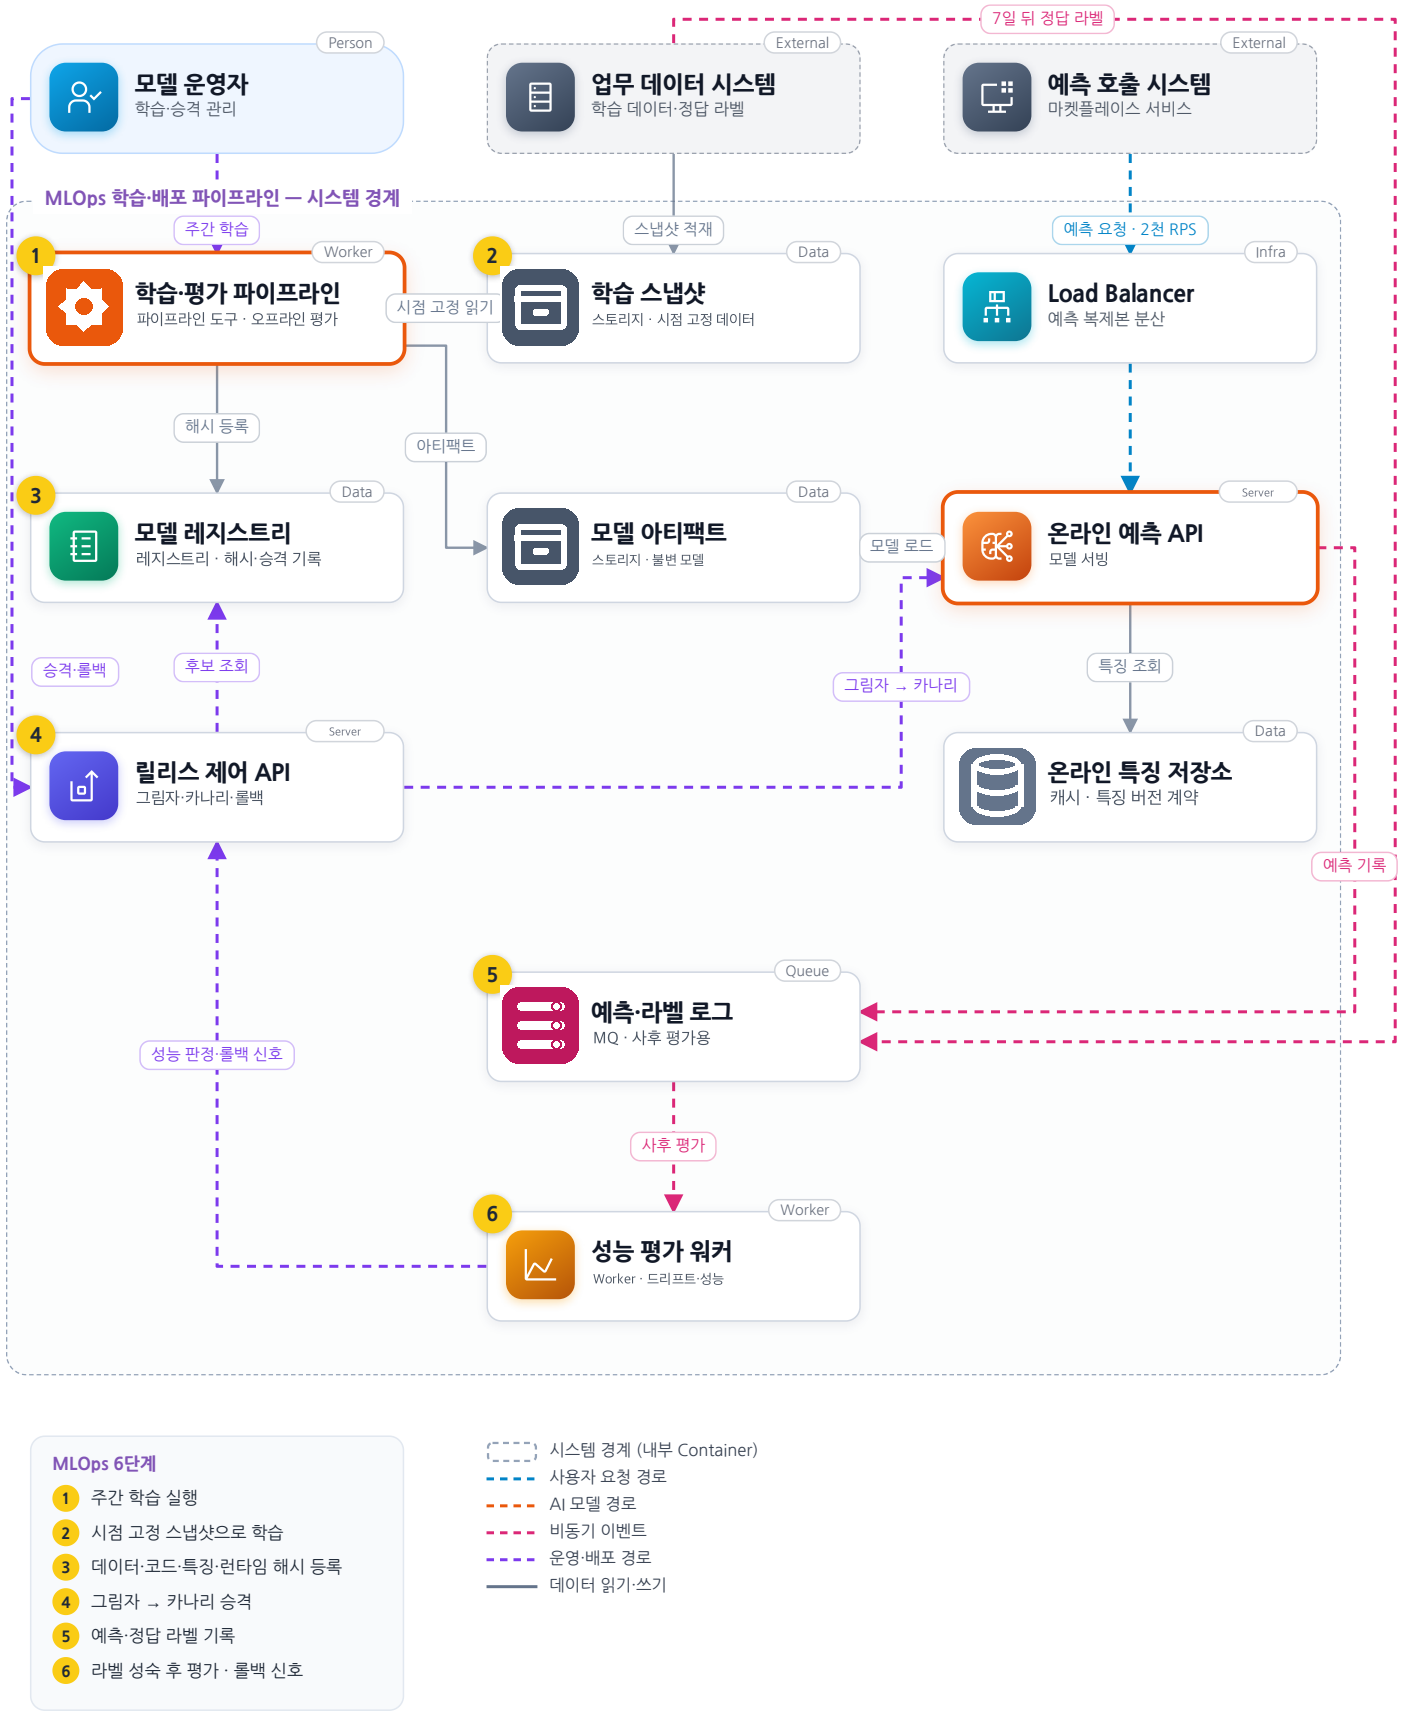
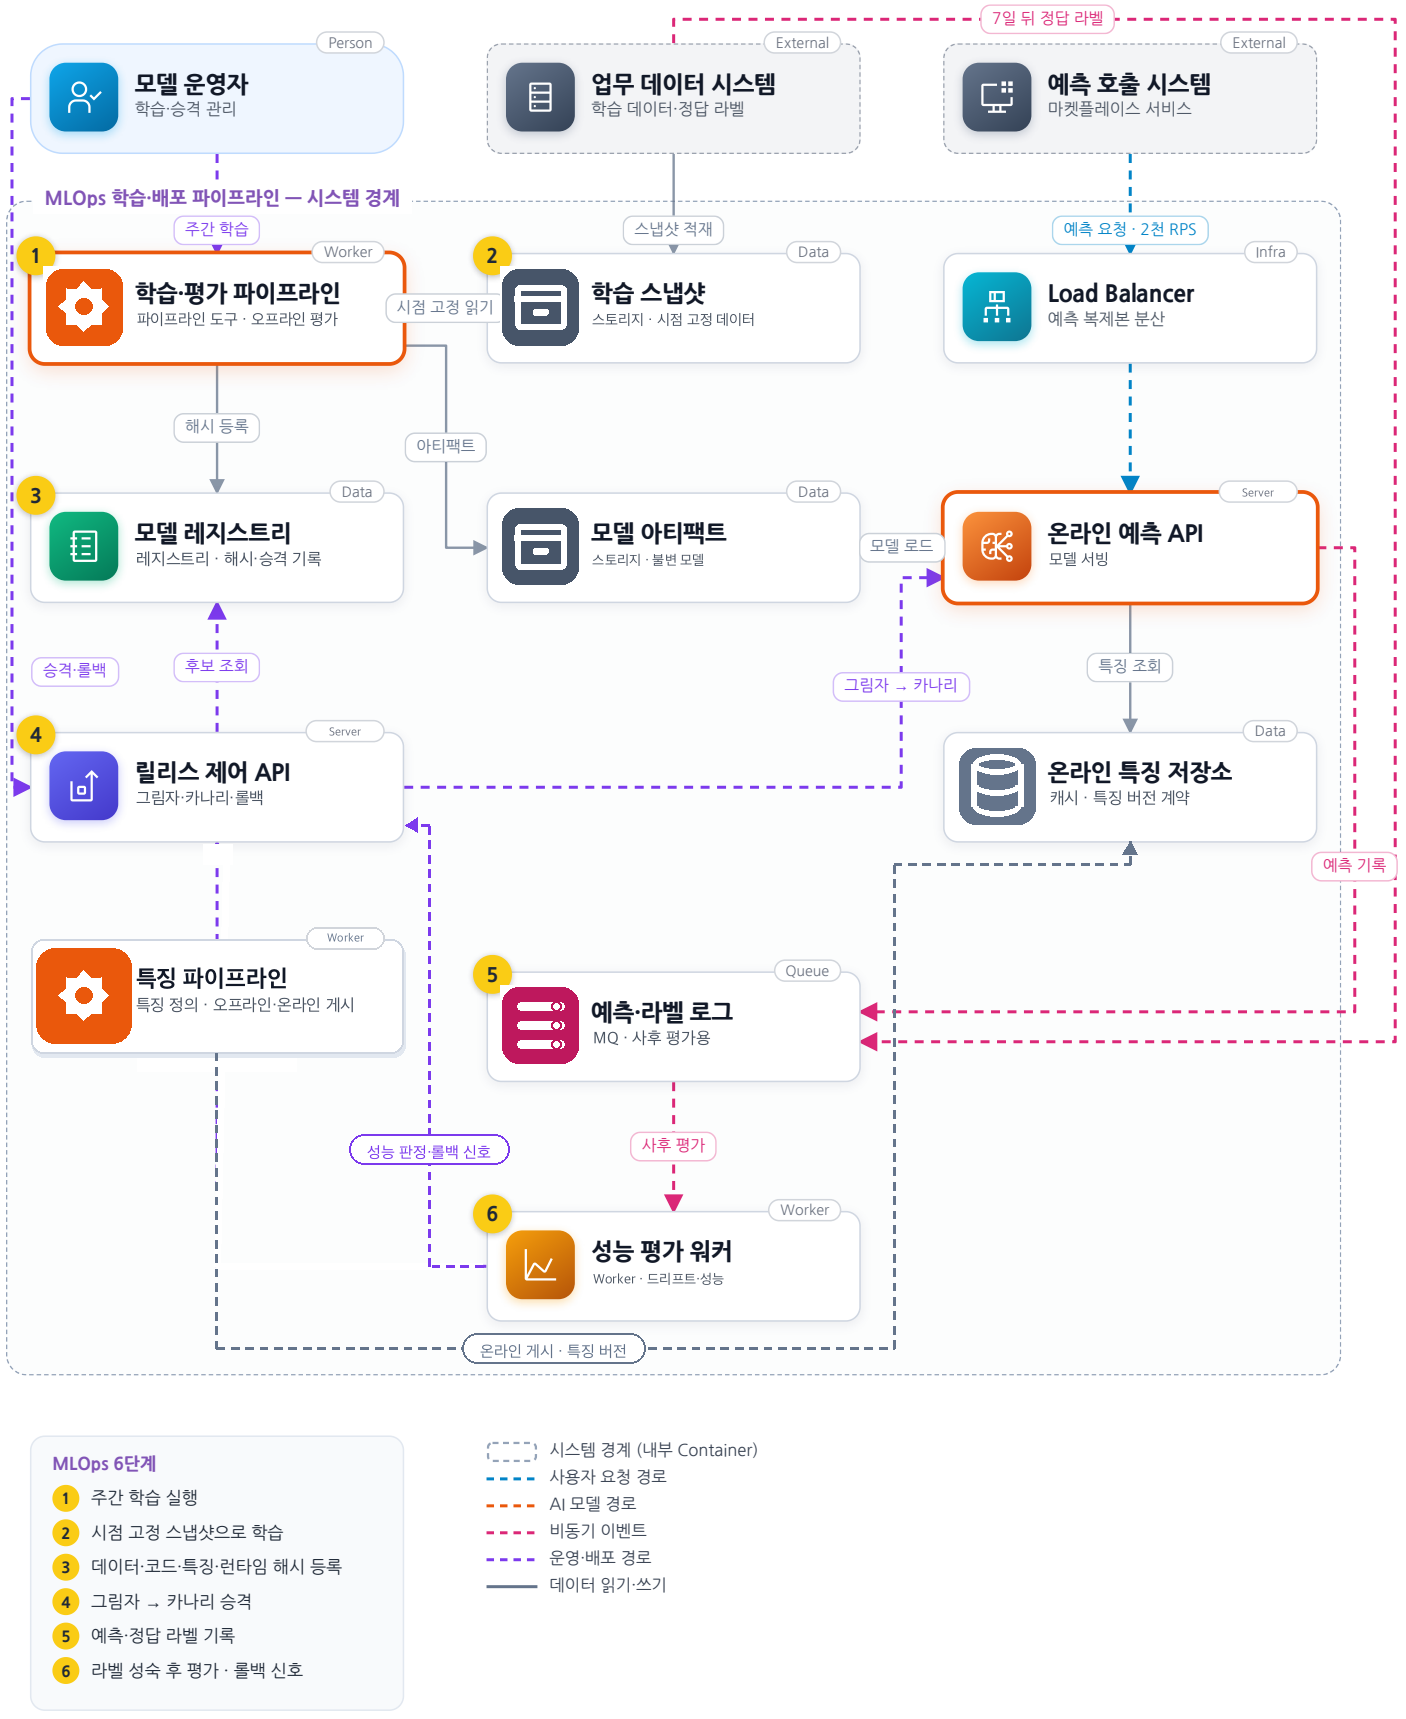
14장: 특징 저장소·임계치 게이트·무중단 모델 로드·롤백 깊이 추가
- 특징 파이프라인 노드 추가: 한 정의로 오프라인(시점 기준 조인)·온라인(버전·계산 시각 게시) 계산, skew 방지
- 승격 게이트 임계치 표: CANDIDATE→VALIDATED→SHADOW→CANARY 5%·25% 자동, ACTIVE만 운영자 승인
- 모델 로드·교체 흐름: 모델 2개 메모리 예산, 사이드 로딩·해시 검증·워밍·준비 보고 뒤 포인터 전환, readiness 게이트, 롤백 깊이 1
- 검증 9~15 추가, 8단계로 확장, GIF 장면 9개(특징 게시·게이트·사이드 로딩·롤백)
- 렌더러: 추가 노드 카드 그리기와 기존 선 재배치(erase+reroute) 지원

diff --git a/README.md b/README.md
@@ -19,7 +19,7 @@
 | [11](<./11_LLM Serving 추론 플랫폼/README.md>) | 고급 | LLM Serving 추론 플랫폼 | 피크 20 RPS · 첫 토큰 p95 1.5초 목표 | 추론 게이트웨이 · 테넌트 한도 · 유한 큐 · 가중 최소 부하 라우팅 · 연속 배치·KV 예약 · 버전 묶음 배포 |
 | [12](<./12_AI Service 사내 문서 질의응답/README.md>) | 고급 | AI Service 사내 문서 질의응답 | 직원 5천 명 · 문서 20만 개 · 피크 30 RPS | 권한 범위 검색 · 원본 ACL 재확인 · 근거 인용 · 임베딩 버전 고정 · 비동기 색인 |
 | [13](<./13_AIOps 장애 탐지와 대응/README.md>) | 고급 | AIOps 장애 탐지와 대응 | 서비스 120개 · 로그 피크 2만 건/초 | 핵심 경보는 AI 우회 · 다채널 호출·에스컬레이션 · 지연 예산·복구 전략 · 보조 분석 · 사람 승인 후 조치 |
-| [14](<./14_MLOps 모델 학습·배포 파이프라인/README.md>) | 고급 | MLOps 모델 학습·배포 파이프라인 | 일 학습 데이터 2천만 행 · 예측 피크 2천 RPS | 시점 고정 학습 · 해시 등록 · 그림자→카나리 · 라벨 성숙 후 평가 |
+| [14](<./14_MLOps 모델 학습·배포 파이프라인/README.md>) | 고급 | MLOps 모델 학습·배포 파이프라인 | 일 학습 데이터 2천만 행 · 예측 피크 2천 RPS | 특징 저장소 · 시점 고정 학습 · 해시 등록 · 임계치 게이트 → 그림자 → 카나리 · 무중단 로드·롤백 · 라벨 성숙 후 평가 |
 
 ## 장을 가로지르는 공통 패턴
 
